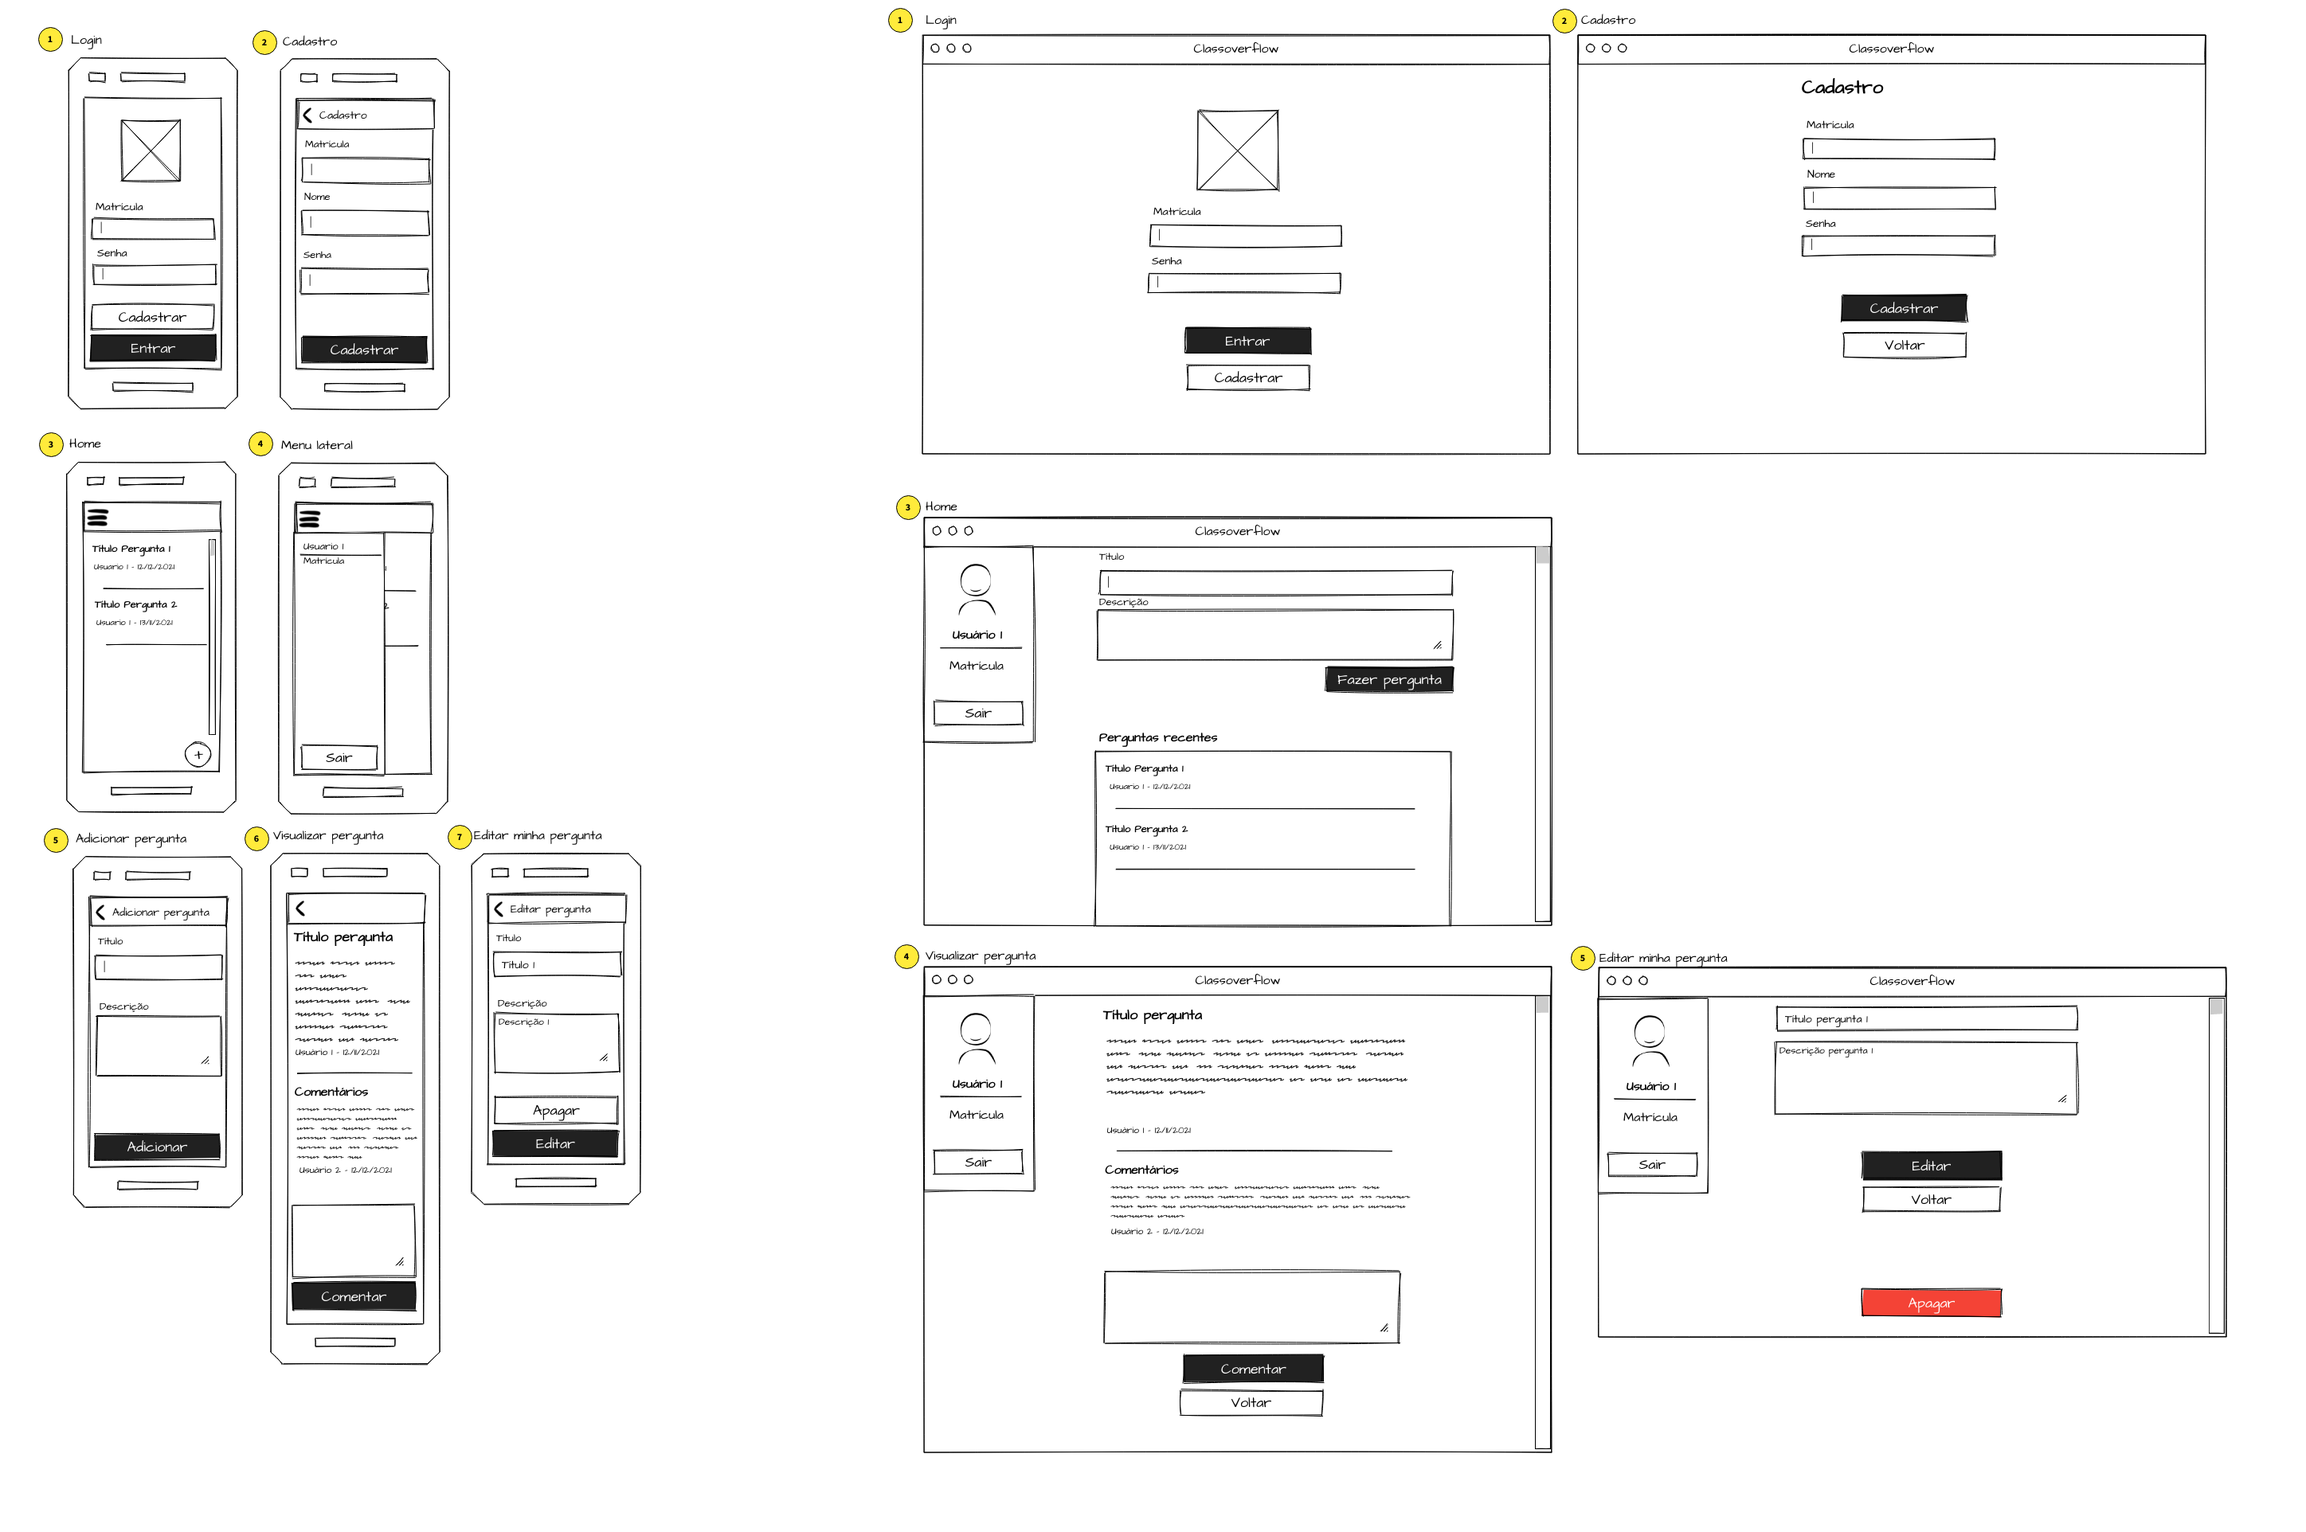
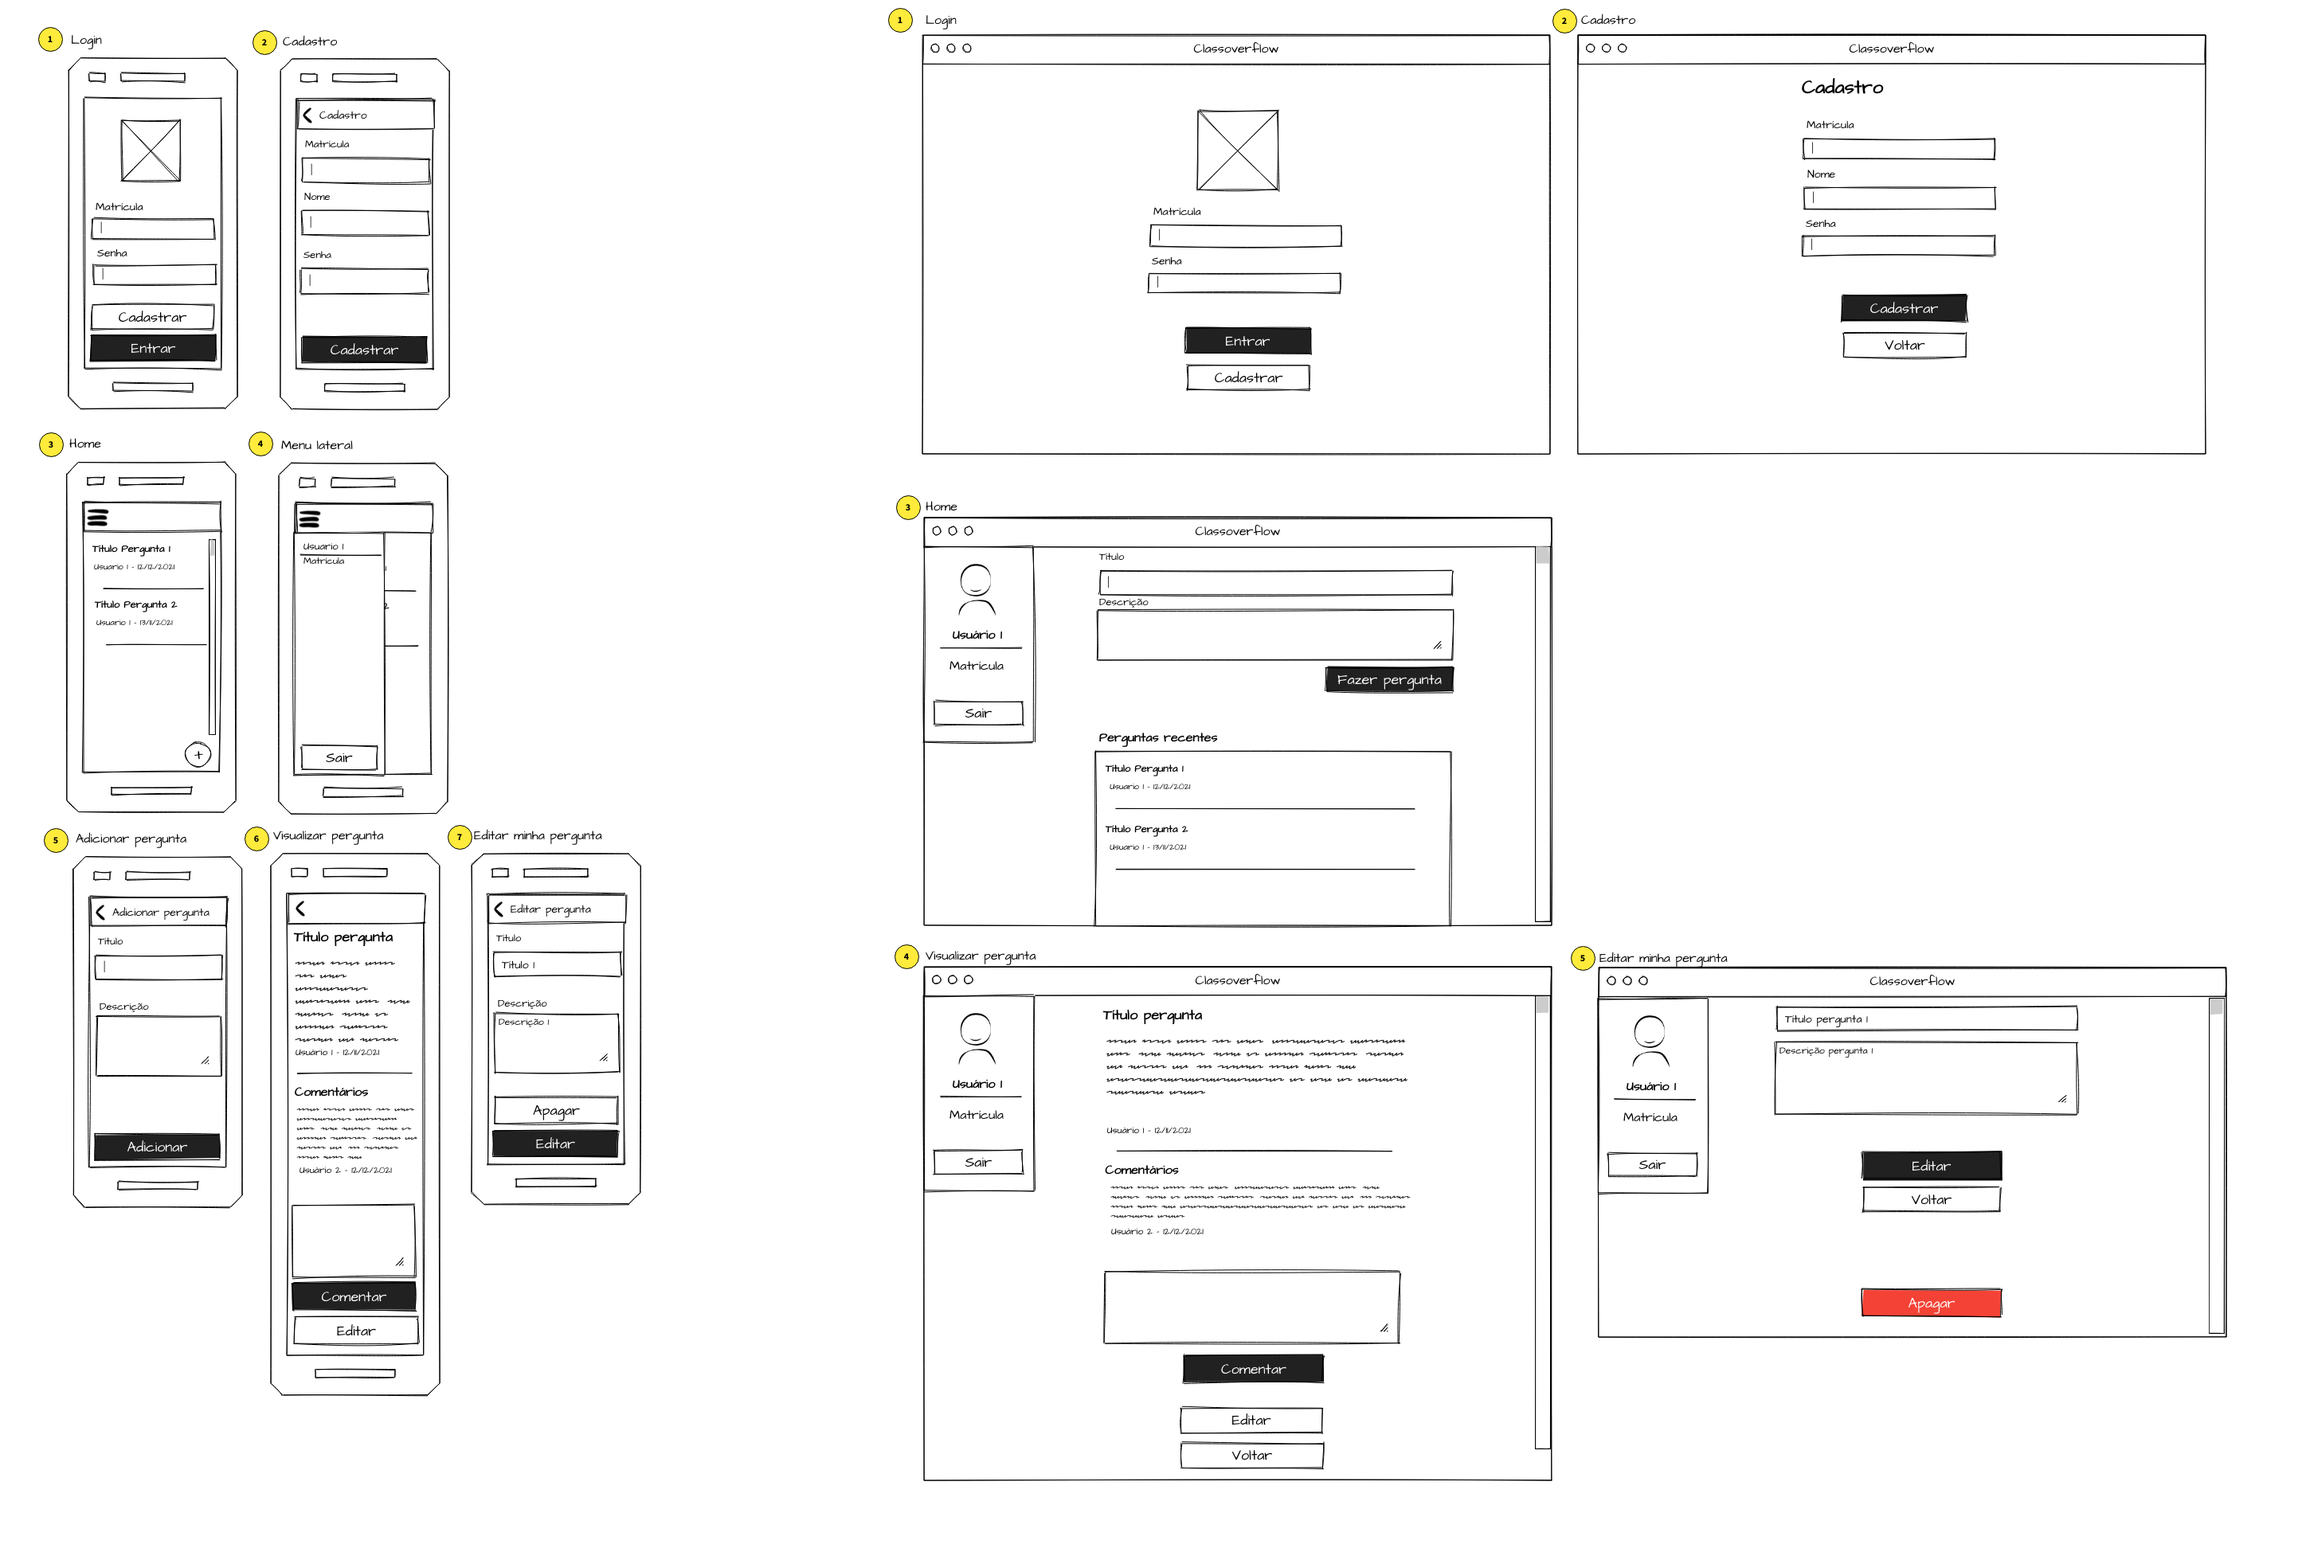
Adição da documentação do protótipo

diff --git a/docs/04-Projeto de Interface.md b/docs/04-Projeto de Interface.md
@@ -1,0 +1,46 @@
+
+# Projeto de Interface
+
+## Protótipo geral
+
+![Protótipo geral](Prototipo.png)
+
+## Mobile
+
+![Protótipo mobile](PrototipoMobile.png)
+
+1. Tela de login. Nela o usuário tem a opção de acessar a tela de cadastro de um novo usuário
+2. Tela de cadastro de um novo usuário.
+3. Tela principal do aplicativo, no qual mostra a listagem de perguntas recentes. Nela o usuário também tem a opção de acessar a tela de adição de pergunta.
+4. Menu lateral para visualizar as informações do usuário e efetuar o logout da aplicação.
+5. Tela de adição de uma nova pergunta
+6. Tela de visualização de uma pergunta. Nela o usuário também poderá adicionar comentários ao tópico ou então editar sua pergunta.
+7. Tela de edição de pergunta para que o usuário possa editar suas perguntas feitas.
+
+### User Flow Mobile
+
+- A primeira tela do usuário é a Tela de Login (1).
+- A partir da Tela de Login (1) o usário pode efetuar o login e acessar o aplicativo (3) ou então o cadastro (2).
+- A partir da Tela de Cadastro (2) o usuário poderá voltar para a tela de login (1).
+- A partir da Tela principal (3) o usuário poderá acessar suas informações contidas no menu lateral ou sair do aplicativo (4).
+- A partir da Tela principal (3) o usuário poderá acessar a tela de adição de um nova pergunta (5).
+- A partir da Tela principal (3) o usuário poderá acessar a tela de visualização de pergunta (6).
+- A partir da Tela de visualização de pergunta (6) o usuário poderá acessar a tela de edição de pergunta (7) caso seja de sua autoria.
+
+## WEB
+
+![Protótipo mobile](PrototipoWEB.png)
+
+1. Tela de login. Nela o usuário tem a opção de acessar a tela de cadastro de um novo usuário
+2. Tela de cadastro de um novo usuário.
+3. Tela principal do aplicativo, no qual mostra a listagem de perguntas recentes. Nela o usuário também tem a opção de adicionar uma nova pergunta.
+4. Tela de visualização de uma pergunta. Nela o usuário também poderá adicionar comentários ao tópico ou então editar sua pergunta.
+5. Tela de edição de pergunta para que o usuário possa editar suas perguntas feitas.
+
+### User Flow WEB
+
+- A primeira tela do usuário é a Tela de Login (1).
+- A partir da Tela de Login (1) o usário pode efetuar o login e acessar o aplicativo (3) ou então o cadastro (2).
+- A partir da Tela de Cadastro (2) o usuário poderá voltar para a tela de login (1).
+- A partir da Tela principal (3) o usuário poderá acessar a tela de visualização de pergunta (4).
+- A partir da Tela de visualização de pergunta (4) o usuário poderá acessar a tela de edição de pergunta (5) caso seja de sua autoria.
